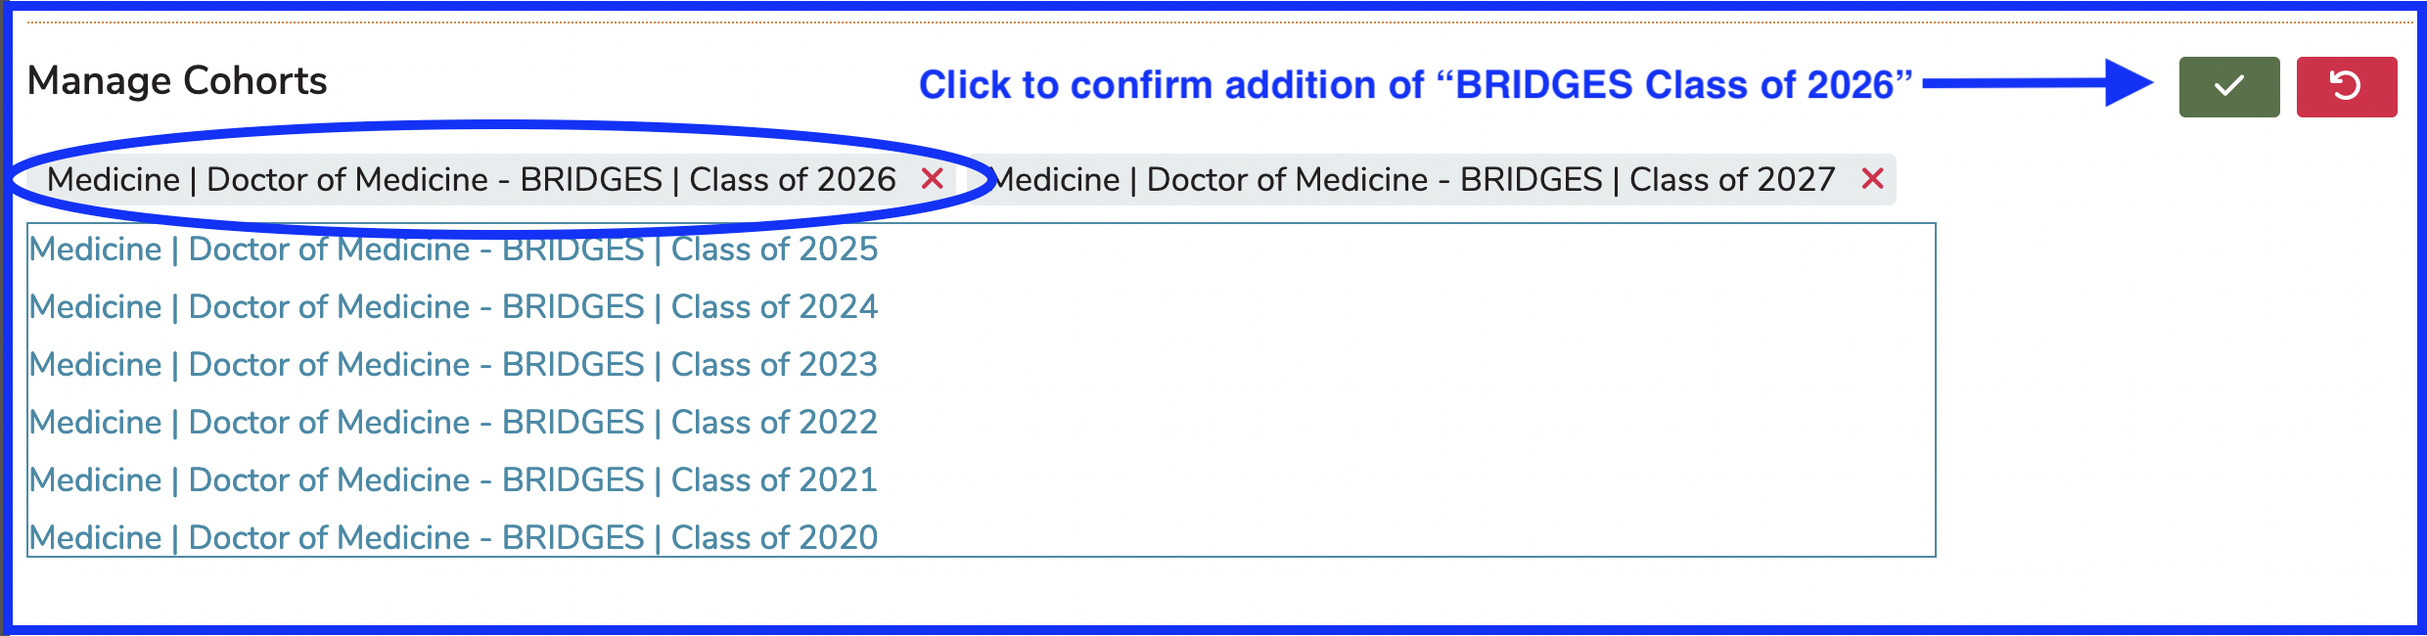
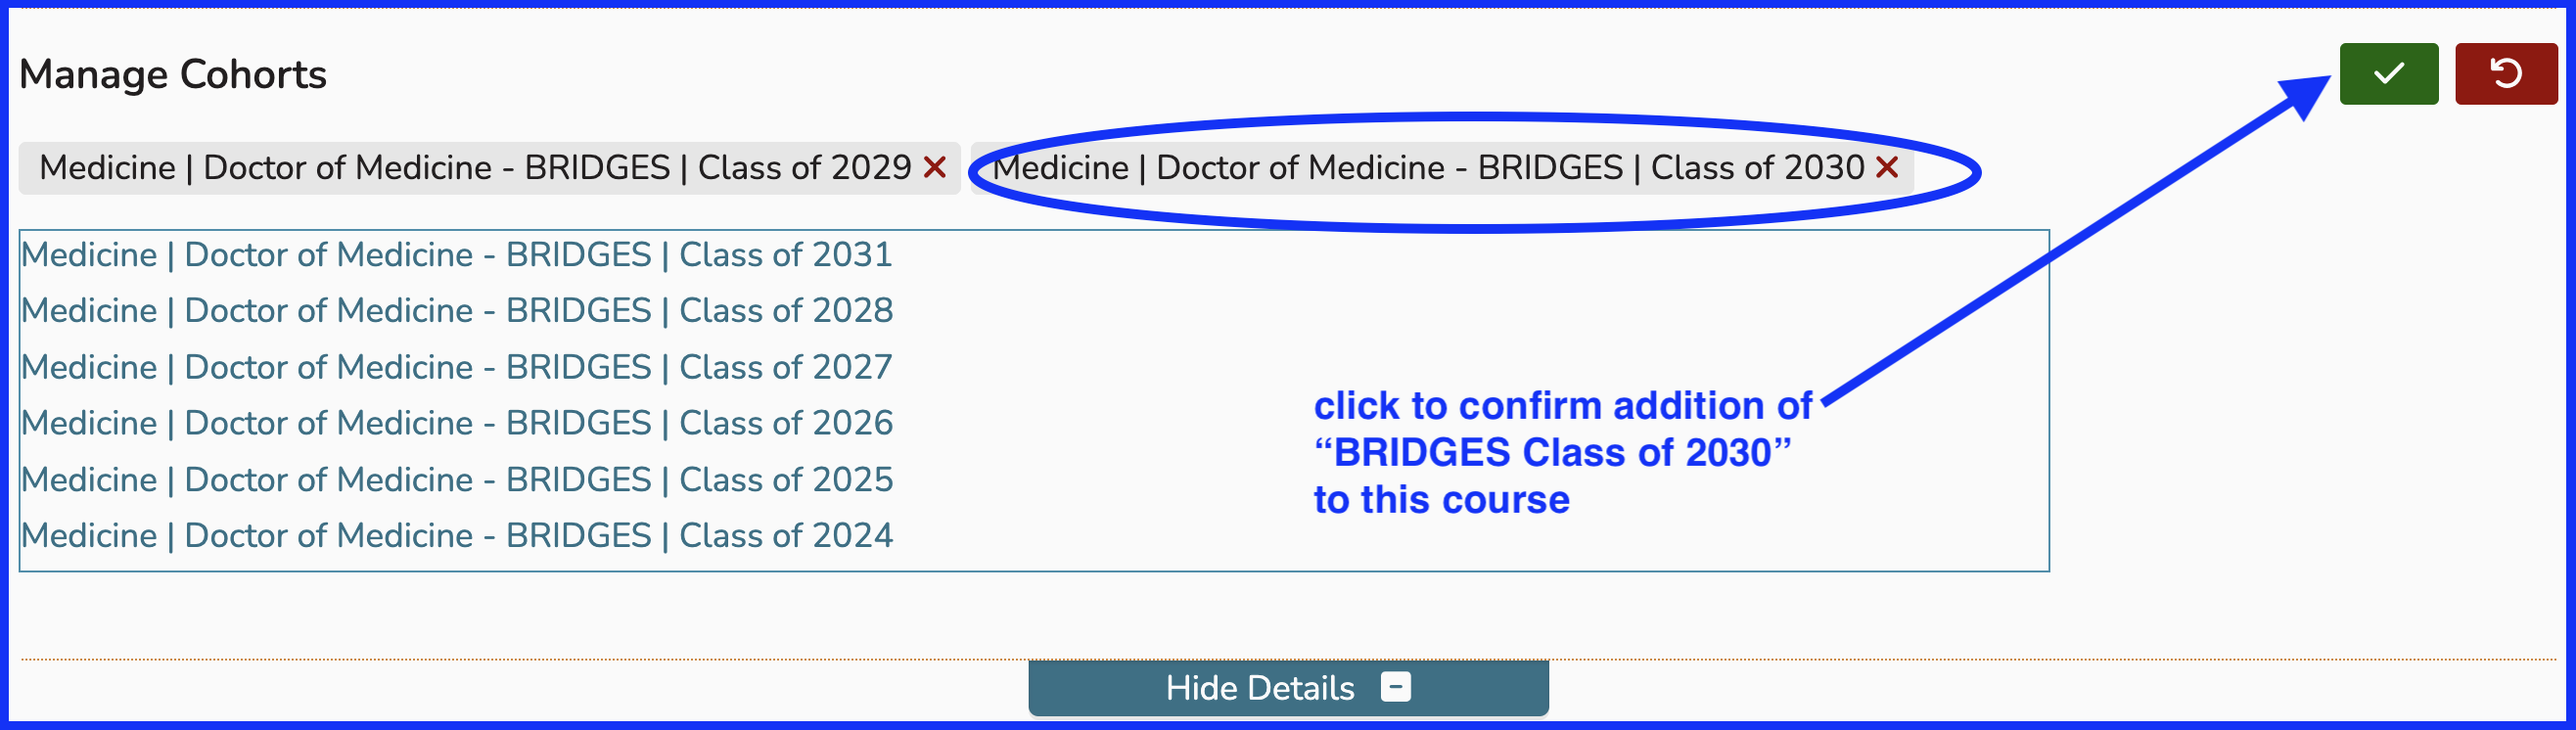
another image updated

diff --git a/courses-and-sessions/courses/edit-course.md b/courses-and-sessions/courses/edit-course.md
@@ -82,7 +82,7 @@ In this case, we want to add the Doctor of Medicine - BRIDGES Class of 2030 to t
 
 ![confirm cohort](../../images/course_images/confirm_cohort.png)
 
-Now that the action detailed above has taken place, the School of Medicine - BRIDGES - Class of 2026 has been successfully attached to the Course as shown below.
+Now that the action detailed above has taken place, the School of Medicine - BRIDGES - Class of 2030 has been successfully attached to the Course as shown below.
 
 ![cohort in list](../../images/course_images/cohort_in_list.png)
 
